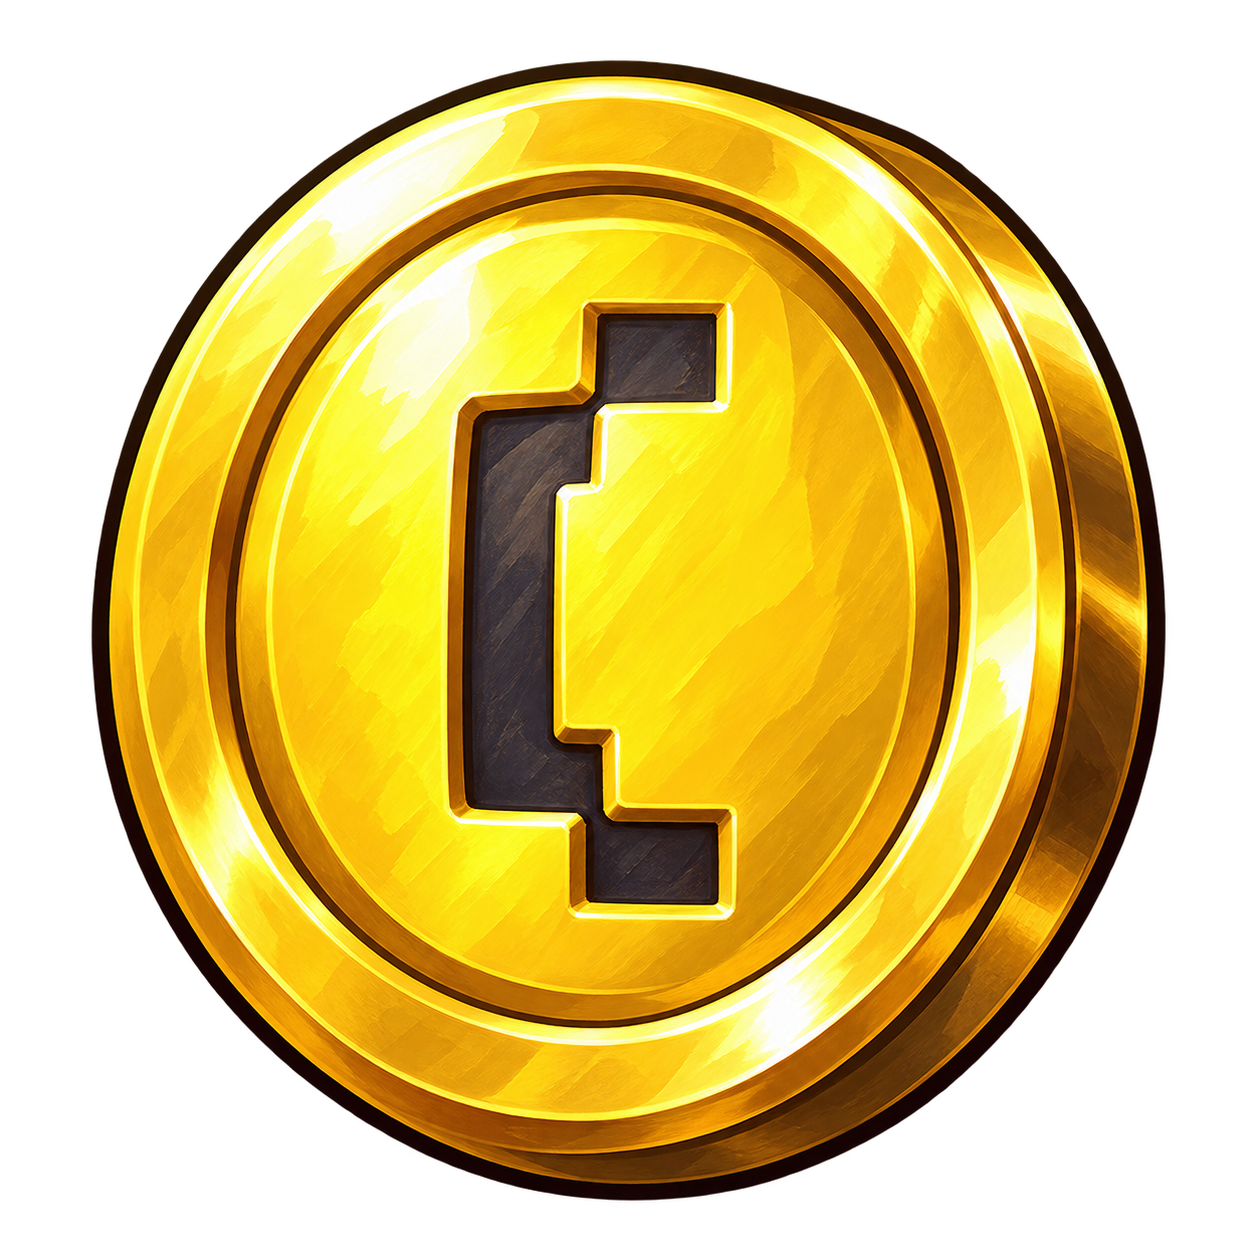
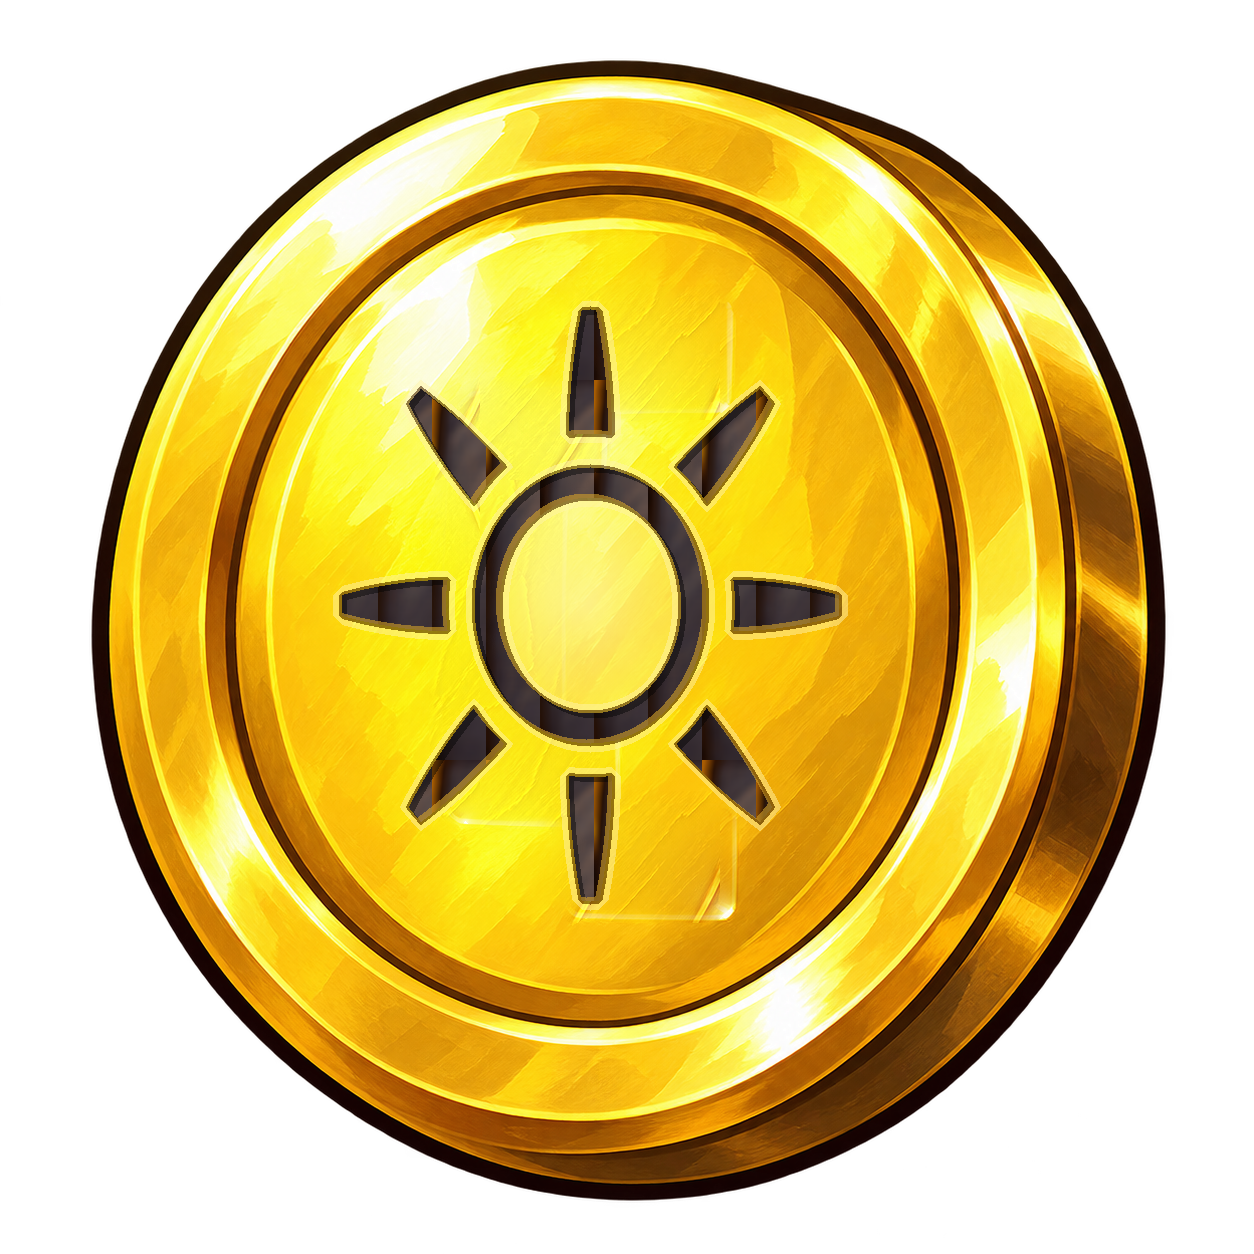
Put the Kimeria sun on the coin
Playtest F12 (#350): the kingdom gets arms, a gold sun in splendour on
a night-blue shield under a royal crown (STORY.md, "Kingdom heraldry").
The coin carries the sun alone.

- World coin: a native 32x16 strip like the Bat (coin-pixel.png ->
  objects/coin.png), the original four colours and white rim, the sun
  on the face and an edge-on frame. Outline 0.371 in both frames, as
  before; still no halo. The contrast gate now measures both frames.
  Items.png stays for the boss elixir icon.
- HUD coin: the painted master with the sun engraved in place of the
  "C" (edited, not regenerated; recorded in generation-prompts).
- PLAYTEST_1 F12 row updated. The ART_DIRECTION reuse list follows.

Changed region(s): [[0.2488, 0.2177, 0.6842, 0.7464]]

diff --git a/core/src/test/java/com/jlogicsoftware/kimeria/entity/items/CollectableTest.java b/core/src/test/java/com/jlogicsoftware/kimeria/entity/items/CollectableTest.java
@@ -103,7 +103,7 @@ class CollectableTest {
         calls.clear();
         Collectable coin = new Collectable(assets, null, ignored -> {}, "Coin", 40, 200, 16, 16);
         coin.render(batch);
-        assertEquals(List.of("Items.png 40.0,200.0 16.0"), calls, "the coin draws no halo and leaves the blend alone: its white rim washes out against one (D76)");
+        assertEquals(List.of("coin.png 40.0,200.0 16.0"), calls, "the coin draws no halo and leaves the blend alone: its white rim washes out against one (D76)");
         assertTrue(Collectable.hasHalo(ItemType.BAT) && Collectable.hasHalo(ItemType.MUSHROOM) && !Collectable.hasHalo(ItemType.COIN));
     }
 
@@ -135,6 +135,7 @@ class CollectableTest {
     @Test void healerIngredientsAreBatAndMushroomOnTheirOwnTwoFrameSheets() {
         assertEquals(java.util.List.of(ItemType.COIN, ItemType.BAT, ItemType.MUSHROOM), java.util.List.of(ItemType.values()));
         assertEquals(ItemType.MUSHROOM, ItemType.fromMapName("Mushroom"));
+        assertEquals("images/objects/coin.png", ItemType.COIN.sheet);
         assertEquals("images/objects/bat.png", ItemType.BAT.sheet);
         assertEquals("images/objects/mushroom.png", ItemType.MUSHROOM.sheet);
         assertEquals("bat", ItemType.BAT.iconName());

diff --git a/core/src/main/java/com/jlogicsoftware/kimeria/entity/items/ItemType.java b/core/src/main/java/com/jlogicsoftware/kimeria/entity/items/ItemType.java
@@ -3,12 +3,12 @@ package com.jlogicsoftware.kimeria.entity.items;
 import java.util.Locale;
 
 /**
- * Collectables. The coin keeps its original two frames in Items.png; the healer ingredients
- * (Bat, Mushroom, #229) are their own two-frame 32x16 strips, shared by world items and
- * (as 128px redraws in images/HUD) the inventory icons.
+ * Collectables. Each is a two-frame 32x16 strip in images/objects: the coin, which carries the sun of
+ * the Kimeria arms (#350), and the healer ingredients (Bat, Mushroom, #229), whose frames are also
+ * redrawn at 128px in images/HUD as the inventory icons.
  */
 public enum ItemType {
-    COIN("images/Items.png", 0, 0), BAT("images/objects/bat.png", 0, 0), MUSHROOM("images/objects/mushroom.png", 0, 0);
+    COIN("images/objects/coin.png", 0, 0), BAT("images/objects/bat.png", 0, 0), MUSHROOM("images/objects/mushroom.png", 0, 0);
 
     public final String sheet;
     public final int spriteX, spriteY;

diff --git a/tools/check_contrast.py b/tools/check_contrast.py
@@ -90,7 +90,7 @@ SPRITES = {
     'Escalator': ('active', 'objects/GreyOff.png', (0, 0, 32, 8), 1, 'top', FULL),
     'Ladder': ('active', 'objects/ladder.png', (0, 0, 16, 16), 1, 'top', FULL),
     'Trigger': ('active', 'objects/lever.png', (0, 0, 16, 16), 2, 'floor', FULL),  # every Trigger draws a Lever: up, and down once pulled
-    'Collectable:Coin': ('active', 'Items.png', (0, 0, 16, 16), 1, 'floor', FULL),
+    'Collectable:Coin': ('active', 'objects/coin.png', (0, 0, 16, 16), 2, 'floor', FULL),  # the face and the edge-on turn (#350)
     'Collectable:Bat': ('active', 'objects/bat.png', (0, 0, 16, 16), 1, 'floor', FULL),
     'Collectable:Mushroom': ('active', 'objects/mushroom.png', (0, 0, 16, 16), 1, 'floor', FULL),
     'CarryableTorch': ('active', 'objects/torch.png', (0, 0, 8, 16), 1, 'floor', FULL),

diff --git a/tools/sprite_layouts.py b/tools/sprite_layouts.py
@@ -18,7 +18,7 @@ PLATFORM_SIZE = (32, 16)
 ITEM_FRAME_SIZE = 16
 ITEM_FRAME_COUNT = 2
 ITEM_STRIP_SIZE = (ITEM_FRAME_SIZE * ITEM_FRAME_COUNT, ITEM_FRAME_SIZE)
-ITEM_STRIPS = ('bat', 'mushroom')  # healer ingredients: two registered 16x16 frames each
+ITEM_STRIPS = ('coin', 'bat', 'mushroom')  # the coin (#350) and the healer ingredients: two registered 16x16 frames each
 HUD_ICONS = ('coin', 'bat', 'mushroom', 'fireball')
 # Light high-contrast touch controls (#226, D55): hand-drawn grids in art/hud/touch -> assets/images/HUD/touch.
 TOUCH_CONTROL_SIZES = {'disc': (64, 64), 'disc-down': (64, 64), 'base': (64, 64), 'knob': (32, 32), 'knob-down': (32, 32),

diff --git a/docs/PLAYTEST_1.md b/docs/PLAYTEST_1.md
@@ -77,7 +77,7 @@ author's answer of 2026-11-15.
 | F21 | The hero sprites should be bigger. | 48×48 frames on 640×360. | A new, bigger hero drawing; hitbox and physics unchanged. | [#343](https://github.com/jlogicgames/edgard_in_kimeria/issues/343) |
 | F15 | Colours: everything active must contrast with the background. The bush and the mushroom contrast now but should be muted. | No written contrast rule; decor bushes and static look-alike mushrooms (#299) are as bright as active objects. | A three-tier contrast rule (background, decor, active) and a recolour. Readability wins over the look-alike deception: static decor mushrooms are muted; the real/false honey fungus game stays between the two active mushrooms (D63). **Done (2026-11-16):** rule [D76](DECISIONS.md#d76-three-contrast-tiers-background-decor-active-344-playtest-f15-2026-11-16) and [ART_DIRECTION.md, "Contrast tiers"](ART_DIRECTION.md#contrast-tiers-d76-playtest-f15-344) (active outline at least 0.28, decor at most 0.20); bush, static look-alike and hanging vine recoloured to the decor tier; the lever, the one active sprite under the floor, outlined; gate `tools/check_contrast.py`; the louder tile scenery is [#189](https://github.com/jlogicgames/edgard_in_kimeria/issues/189), the in-game check [#368](https://github.com/jlogicgames/edgard_in_kimeria/issues/368). | [#344](https://github.com/jlogicgames/edgard_in_kimeria/issues/344) |
 | F19 | The bat looks like an enemy but is a collectable; draw it differently or replace it. | The Bat ingredient (D43) is a small flapping bat; a Bat enemy also exists. | Keep the ingredient, draw it as an item (dried wing in a jar or pouch) with a shared collectable cue. **Done for the world sprite, label and cue (2026-11-16, awaiting review; D43 art note):** a corked jar with a dried bat wing inside, labelled "Bat wing" in five languages; every collectable wears a shared pickup cue (2 px bob, additive halo, sparkle; the coin has no halo); a detailed HUD icon of the jar. | [#345](https://github.com/jlogicgames/edgard_in_kimeria/issues/345) |
-| F12 | Put a coat of arms on the coins, then repeat it on banners, the castle and elsewhere. | Coins have no heraldry; the kingdom has no emblem. | Design the Kimeria crest, redraw the coin, list the reuse places. | [#350](https://github.com/jlogicgames/edgard_in_kimeria/issues/350) |
+| F12 | Put a coat of arms on the coins, then repeat it on banners, the castle and elsewhere. | Coins have no heraldry; the kingdom has no emblem. | Design the Kimeria crest, redraw the coin, list the reuse places. **Crest chosen and world coin done (2026-11-16, awaiting review):** the arms are a gold sun in splendour on a night-blue shield under a royal crown ([STORY.md, "Kingdom heraldry"](STORY.md#kingdom-heraldry--accepted-2026-11-16-350-playtest-f12)); the world coin carries the sun (`objects/coin.png`, two frames, outline 0.371, unchanged, no halo); the painted HUD coin has the sun engraved in place of the "C" (approved by the author); reuse in the fortress [#116](https://github.com/jlogicgames/edgard_in_kimeria/issues/116) and on the world map [#94](https://github.com/jlogicgames/edgard_in_kimeria/issues/94). | [#350](https://github.com/jlogicgames/edgard_in_kimeria/issues/350) |
 
 ### Traps, effects and level design
 

diff --git a/art/hud/generation-prompts.md b/art/hud/generation-prompts.md
@@ -24,7 +24,15 @@ selected-source prompt is recorded below. It is used only for the HUD.
 Reference role: the corresponding original item crop establishes identity.
 Selected source: `exec-7becbdf6-9b76-4d06-b132-7fcc70969d47.png`; stored as `coin-master.png`.
 
-Exact prompt:
+**Repainted with the Kimeria sun (#350, 2026-11-16, approved by the author).** No image generator was available, so the
+painted master below was edited, not regenerated. The hooked "C" engraving was filled with the face's own gold
+(diffused in from the surrounding face, then the face's own brush texture from a clean patch to the right of the C).
+The sun of the Kimeria arms (STORY.md, "Kingdom heraldry") was then engraved in the centre: a raised pale-gold disc in
+an engraved ring, and eight tapering rays. The rays are foreshortened to the face's 3/4 ellipse (x scale 0.84). The
+engraving reuses the C's own dark recess texture, inner shadow and bright bevel. The same disc and eight rays are on the
+world coin (`art/objects/coin-pixel.png`). The exact prompt below produced the original painting.
+
+Exact prompt of the original painting:
 
 > Create a detailed HUD inventory icon for Edgard in Kimeria, a beautiful hand-painted remaster of the gold coin in reference image. Reference establishes identity: a thick gold coin seen nearly front on with slightly angled right rim, inner dark hooked C-shaped engraving, white-yellow highlights. Preserve its simple silhouette. Rich controlled golden shades, strong dark contour, smooth clean illustration, readable at 32 pixels; source intended for 128x128/256-color HUD export. Centered single isolated coin filling most of square canvas, true transparent background, no shadow outside, no text or labels, no extra items. This is UI art, NOT low resolution gameplay pixel art.
 

diff --git a/art/objects/generation-prompts.md b/art/objects/generation-prompts.md
@@ -140,3 +140,15 @@ for an enemy (playtest F19). No image generator: it was drawn per pixel as a tex
 A corked glass jar tied with twine, one dried bat wing inside (finger bones, scalloped edge); frame 2 moves the
 glass glint. 9 colours plus transparency; ink `1b1226` and the violets of the old Bat item kept. Contrast at
 its one placement (forest-2 x448): outline 0.425 (D76 active floor 0.28).
+
+## Coin with the Kimeria sun (#350, 2026-11-16)
+
+`coin-pixel.png` (32×16, two registered 16×16 frames) replaces the original coin of `images/Items.png`
+(playtest F12: a coat of arms on the coins). It carries the sun of the Kimeria arms (STORY.md, "Kingdom heraldry").
+No image generator: it was drawn per pixel as a text grid and converted 1:1, then exported with
+`python3 tools/export_object_sprites.py` to `assets/images/objects/coin.png`. Frame 1 is the face: an 11×11 disc,
+white rim, a dark-gold and navy ring, and the sun on the gold field (a white sun disc with eight navy rays). Frame 2
+is the edge-on turn, the sun foreshortened to a column. The original's four colours are kept (`222034`, `c2b902`,
+`fff300`, `ffffff`) and so is its white rim, which carries the outline: 0.371 at forest-2 x336 in both frames, the same
+as the original (D76 active floor 0.28). The coin still draws no halo (`Collectable.hasHalo`). `Items.png` stays
+for the elixir icon of `BossHud`.

diff --git a/docs/STORY.md b/docs/STORY.md
@@ -95,6 +95,18 @@ future implementation is tracked separately from this narrative decision.
   imply a new checkpoint, resurrection, healing or persistence mechanic. The silver-thread
   explanation of Edgard's returns (below) is narrative only and does not change this.
 
+### Kingdom heraldry — accepted 2026-11-16 ([#350](https://github.com/jlogicgames/edgard_in_kimeria/issues/350), playtest F12)
+
+The arms of Kimeria, the arms of King Rufardus the Wise: **a gold sun in splendour, eight rays, on a night-blue
+shield with a gold border, under a royal crown.** Gold on night blue is the kingdom's story in one picture: the sun
+that L'Kardina's curse put out, held against the eternal night.
+
+- **The sun alone** is the kingdom's mark on small things. Every coin of Kimeria carries it (the world coin and the
+  HUD coin), so the coins the healer asks for are the kingdom's own money.
+- **The full arms** (crown, shield and sun) belong to the king and his places: banners and shields in the fortress
+  ([#116](https://github.com/jlogicgames/edgard_in_kimeria/issues/116)) and Kimeria on the world map
+  ([#94](https://github.com/jlogicgames/edgard_in_kimeria/issues/94)).
+
 ### Not yet decided
 
 The healer's personal name, origin, motives, relationship to the boss, exact knowledge of
